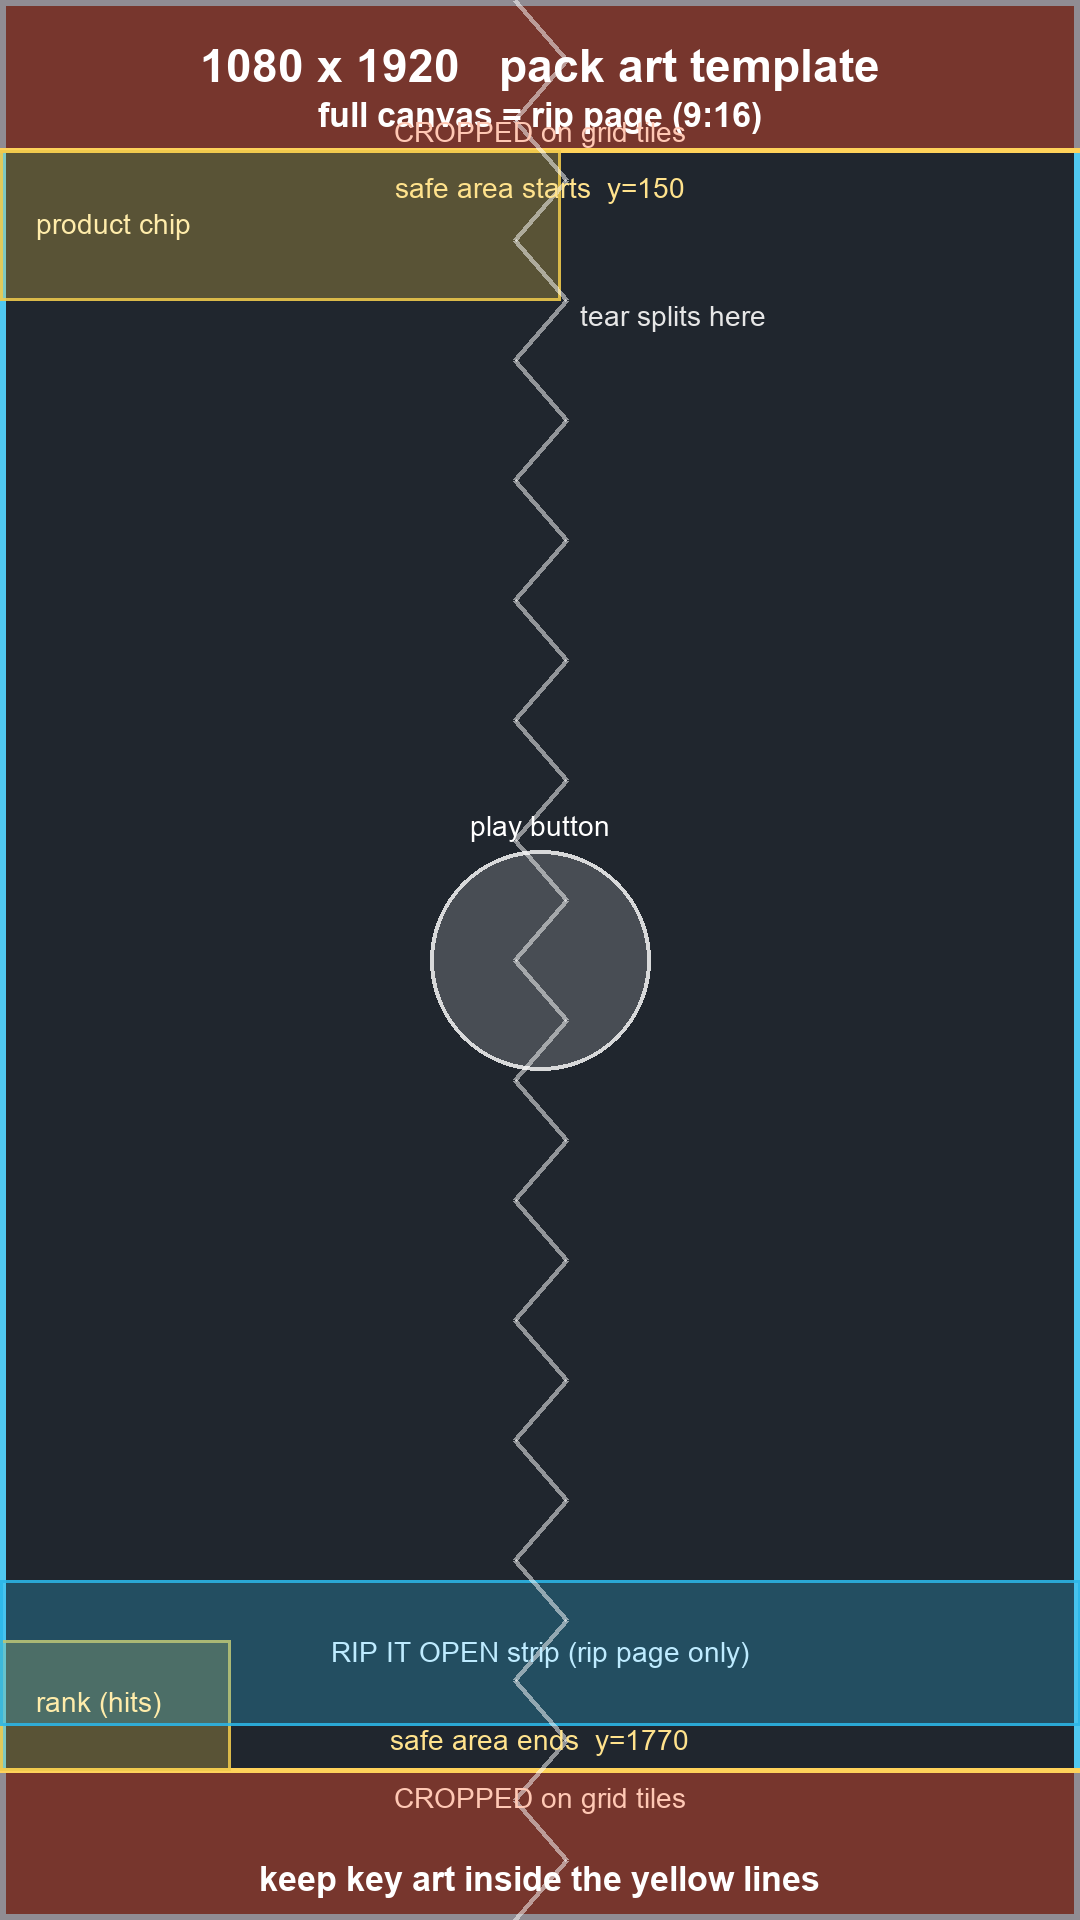
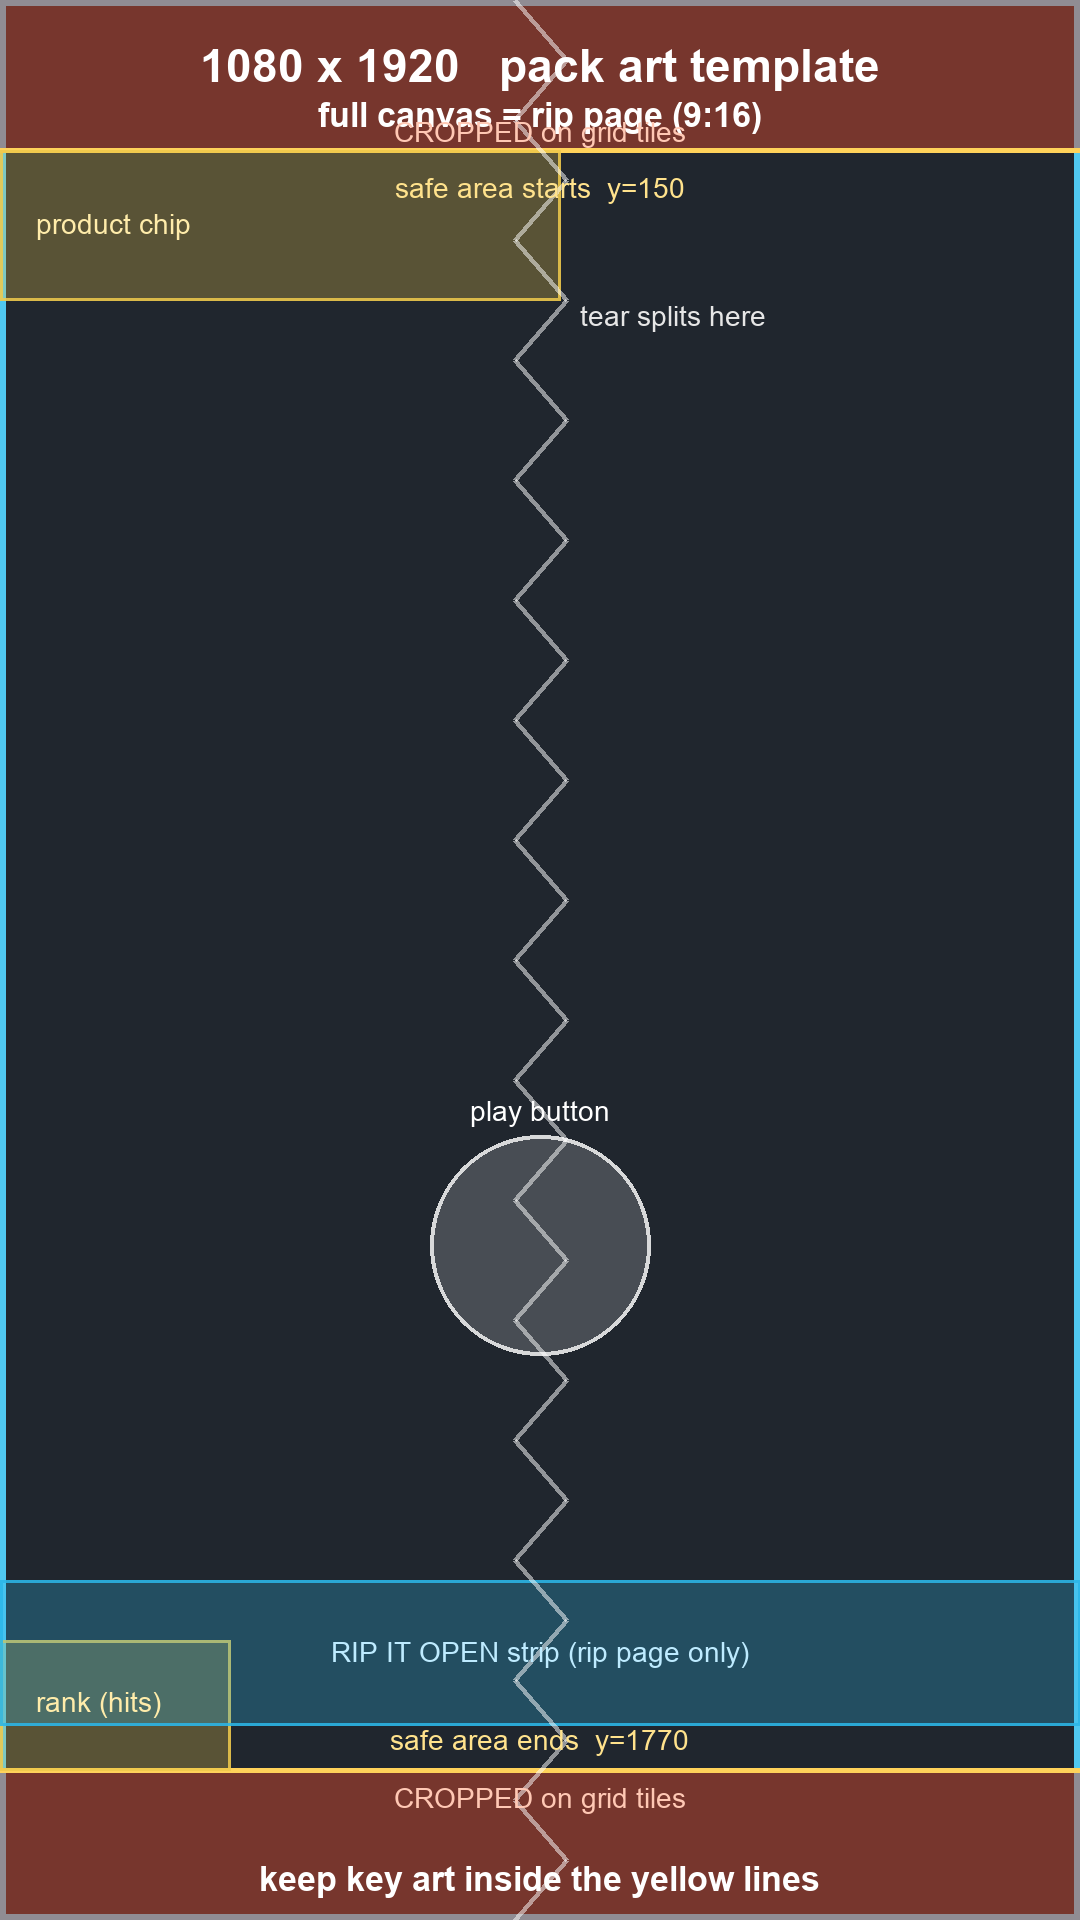
Move the play button off the mascot's face
Dead centre put it squarely on Trubbish in the Pitch Black artwork. Measured
where the art actually falls in the 2:3 tile crop: face 39-51%, plate 52-77%,
wordmark 83-91%. The button now sits at 68%, spanning 58.8-76.3%, which lands
on the plate and clears both.

Checked against the gradient packs too, where the set name starts at 76.9%,
so nothing collides there either. Spec and template updated so the next
artwork is drawn around the new position.

Changed region(s): [[0.3972, 0.4062, 0.6111, 0.7188]]

diff --git a/public/assets/site.css b/public/assets/site.css
@@ -300,8 +300,12 @@ footer .soc svg{fill:var(--paper)}
 .vid-shell:hover::after{opacity:1}
 .vid-shell.playing::after{display:none}
 
+/* Sits low rather than dead centre: on the pack artwork the middle of the tile
+   is the mascot's face, and a play button parked on it looked like a mistake.
+   At 68% it lands on the plate, below the face (ends 51%) and above the
+   wordmark (starts 83%). */
 .vid-play{
-  position:absolute;left:50%;top:50%;transform:translate(-50%,-50%);z-index:2;
+  position:absolute;left:50%;top:68%;transform:translate(-50%,-50%);z-index:2;
   width:54px;height:54px;border-radius:50%;background:var(--ketchup);
   border:3px solid var(--paper-2);display:grid;place-items:center;pointer-events:none;
   box-shadow:0 4px 12px rgba(0,0,0,.45);transition:transform .14s,background .14s;

diff --git a/assets-source/PACK-ART-SPEC.md b/assets-source/PACK-ART-SPEC.md
@@ -61,10 +61,15 @@ detail you care about.
 
 | Zone | Where, in 1080x1920 coords | Appears on |
 | --- | --- | --- |
-| Play button, ~220px circle | centred, x 540 y 960 | everywhere |
+| Play button, ~220px circle | centred horizontally, **y 1090-1400** | grid tiles |
 | Product chip ("ETB", "BUNDLE") | top-left, x 0-560, y 150-300 | grid tiles |
 | Rank number ("#1") | bottom-left, x 0-230, y 1640-1770 | Hits Only shelf |
 | "RIP IT OPEN" strip, full width | y 1580-1725 | rip page only |
+
+The play button used to sit dead centre, which parked it on Trubbish's face in
+the Pitch Black art. It now sits low, over the plate: clear of the mascot
+(which ends around y 980) and clear of a bottom wordmark (which can start from
+about y 1490). Keep the band **y 1090-1400** free of detail you care about.
 
 The card set's own name is currently printed on the pack by CSS. **Once you
 supply artwork I will turn that off**, along with the Trubbish badge, so your
